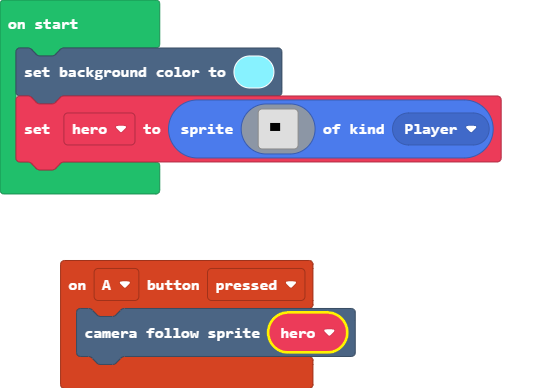
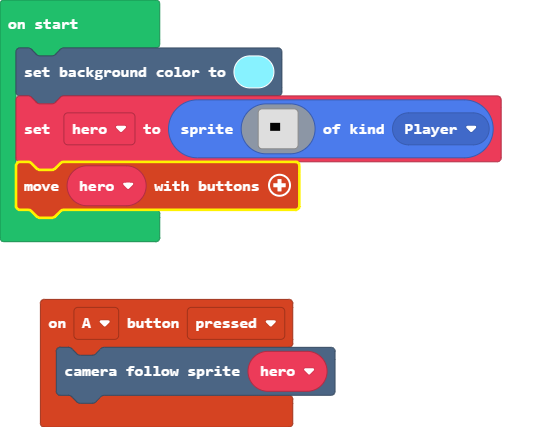
Controles

Changed region(s): [[0.0, 0.0309, 0.9222, 0.5876], [0.0615, 0.6495, 0.6456, 1.0], [0.4919, 0.1546, 0.5226, 0.1856]]

diff --git a/main.ts b/main.ts
@@ -21,3 +21,4 @@ hero = sprites.create(img`
     . . . . . . . . . . . . . . . . 
     . . . . . . . . . . . . . . . . 
     `, SpriteKind.Player)
+controller.moveSprite(hero)
